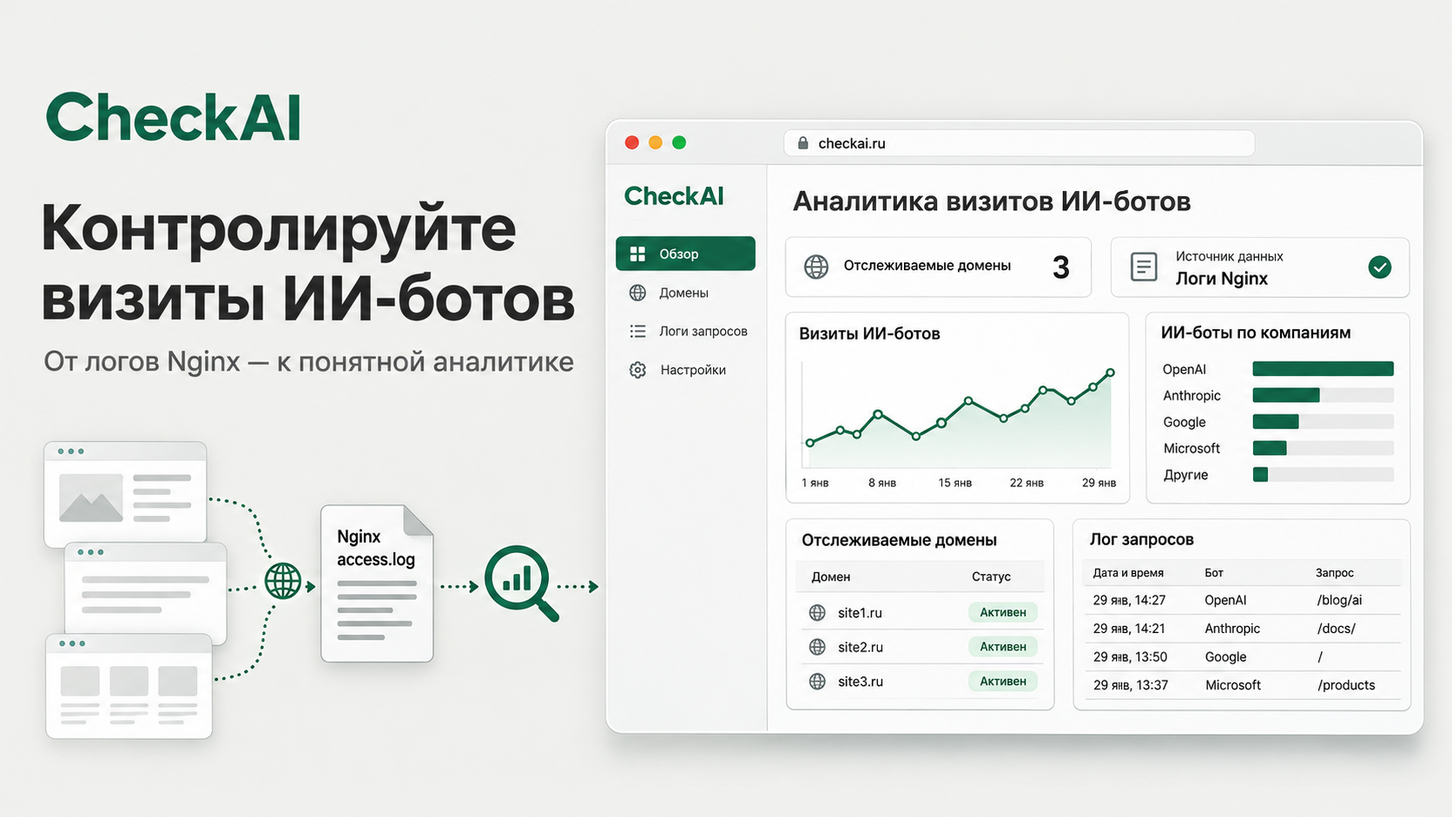
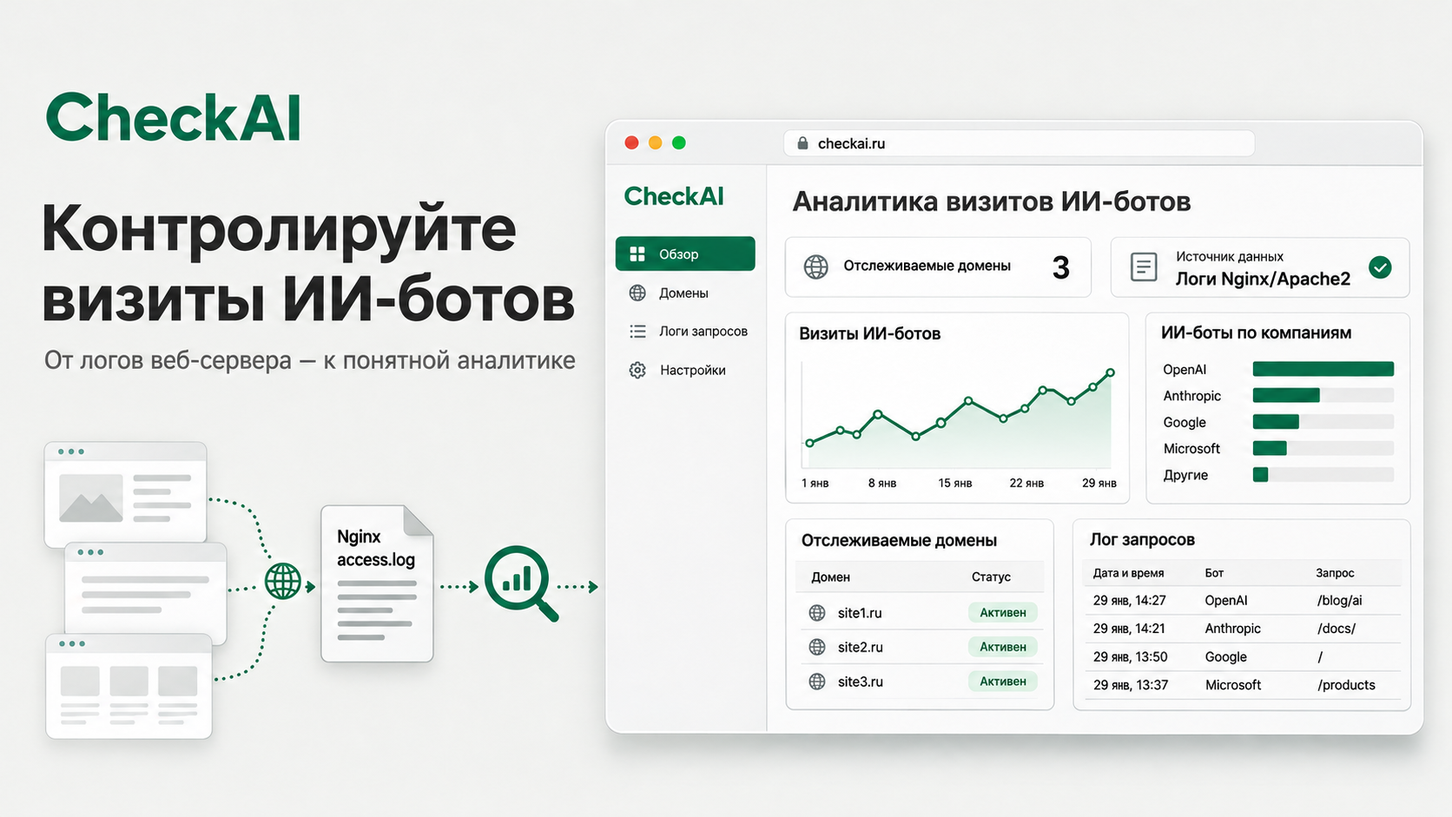
Document Apache log support and update default path

diff --git a/public/index.php b/public/index.php
@@ -963,7 +963,7 @@ $pageTitle = $settingsPage && $isAdmin ? 'Настройки — CheckAI' : ($ra
                         <label class="field">
                             <span>Корень каталога логов</span>
                             <input name="log_root" value="<?= escape($settings['log_root']) ?>" required maxlength="4096" spellcheck="false" autocapitalize="off" autocomplete="off" class="mono">
-                            <small>Абсолютный путь к каталогу, доступному PHP. Он хранится в базе этой установки. Для новых баз значение по умолчанию: <span class="mono">/var/logs-nginx</span>.</small>
+                            <small>Абсолютный путь к каталогу, доступному PHP. Он хранится в базе этой установки. Для новых баз значение по умолчанию: <span class="mono">/var/logs</span>.</small>
                         </label>
                         <label class="check">
                             <input type="checkbox" name="enabled" value="1"<?= $automatic ? ' checked' : '' ?>>

diff --git a/tests/check-clean-db.php b/tests/check-clean-db.php
@@ -10,6 +10,11 @@ if ($version !== 20) {
     throw new RuntimeException("Expected SQLite schema version 20, got $version.");
 }
 
+$logRoot = $database->query('SELECT log_root FROM settings WHERE id = 1')->fetchColumn();
+if ($logRoot !== '/var/logs') {
+    throw new RuntimeException('Fresh database has an unexpected log root.');
+}
+
 $botCount = (int) $database->query('SELECT COUNT(*) FROM bots')->fetchColumn();
 $userCount = (int) $database->query('SELECT COUNT(*) FROM users')->fetchColumn();
 $signatureCount = (int) $database->query('SELECT COUNT(*) FROM bot_signatures')->fetchColumn();

diff --git a/README.md b/README.md
@@ -1,12 +1,27 @@
 # CheckAI
 
-CheckAI — сервис для мониторинга обращений ИИ-ботов к сайтам. Он читает access-логи Nginx, распознаёт известных ботов и показывает статистику по сайтам, компаниям, ботам и запрошенным страницам.
+CheckAI is a service for monitoring AI bot visits to websites. It reads Nginx/Apache2 access logs in `combined` format, identifies known bots, and displays statistics by website, company, bot, and requested page.
+
+The web dashboard and collector run on PHP 8.3, and data is stored in SQLite. CheckAI is designed for website owners and teams who want to understand how AI services access their content.
+
+## Features
+
+- Collection and parsing of Nginx/Apache2 access logs in `combined` format;
+- AI bot identification using configurable User-Agent signatures;
+- Reports, rankings, and a request log with filters;
+- Management of websites, bots, companies, and users through the web dashboard;
+- Manual or automatic data collection and daily digests;
+- Local data storage in SQLite.
+
+# CheckAI (на русском)
+
+CheckAI — сервис для мониторинга обращений ИИ-ботов к сайтам. Он читает access-логи Nginx/Apache2 в формате `combined`, распознаёт известных ботов и показывает статистику по сайтам, компаниям, ботам и запрошенным страницам.
 
 Веб-панель и сборщик работают на PHP 8.3, данные хранятся в SQLite. Проект подходит владельцам сайтов и командам, которым важно понимать, как ИИ-сервисы обращаются к их контенту.
 
 ## Возможности
 
-- сбор и разбор access-логов Nginx в формате `combined`;
+- сбор и разбор access-логов Nginx/Apache2 в формате `combined`;
 - распознавание ИИ-ботов по настраиваемым сигнатурам User-Agent;
 - отчёты, рейтинги и журнал запросов с фильтрами;
 - управление сайтами, ботами, компаниями и пользователями из веб-панели;
@@ -63,7 +78,7 @@ docker compose up -d --build
 docker compose run --rm admin-setup
 ```
 
-Затем откройте панель по адресу [http://localhost:555/](http://localhost:555/). По умолчанию Compose ищет журналы в `../logs-nginx`; путь к каталогу можно задать переменной `CHECKAI_LOG_DIR`. Для локальной проверки можно создать пустой каталог `../logs-nginx` рядом с каталогом проекта.
+Затем откройте панель по адресу [http://localhost:555/](http://localhost:555/). По умолчанию Compose ищет журналы в `../logs`; путь к каталогу можно задать переменной `CHECKAI_LOG_DIR`. Для локальной проверки можно создать пустой каталог `../logs` рядом с каталогом проекта.
 
 ### Проверка на чистой базе
 
@@ -86,21 +101,21 @@ GitHub Actions выполняет эти же команды при каждом
 
 - Нужны PHP 8.3 с PDO SQLite и веб-сервер Apache или Nginx с корнем сайта `public`. Закройте от веб-доступа `src`, `database`, `bin` и каталог `var`.
 - Инициализируйте базу командой `php bin/init-db.php`, затем создайте администратора командой `php bin/admin-setup.php`.
-- В настройках укажите абсолютный путь к папке логов, доступный пользователю PHP. На Linux PHP должен иметь право прохода (`x`) по каталогу и чтения (`r`) нужных файлов. Например, если Apache работает от `www-data`, а каталог `/var/logs-nginx` закрыт для остальных пользователей, выдайте `www-data` право прохода через ACL: `setfacl -m u:www-data:--x /var/logs-nginx`. Если сам файл не читается, выдайте ACL на конкретный файл, например `setfacl -m u:www-data:r-- /var/logs-nginx/example.com.access.log`. Не открывайте каталог всем пользователям через `chmod 777`.
+- В настройках укажите абсолютный путь к папке логов, доступный пользователю PHP. На Linux PHP должен иметь право прохода (`x`) по каталогу и чтения (`r`) нужных файлов. Например, если Apache работает от `www-data`, а каталог `/var/logs` закрыт для остальных пользователей, выдайте `www-data` право прохода через ACL: `setfacl -m u:www-data:--x /var/logs`. Если сам файл не читается, выдайте ACL на конкретный файл, например `setfacl -m u:www-data:r-- /var/logs/example.com.access.log`. Не открывайте каталог всем пользователям через `chmod 777`.
 - Для автоматического сбора добавьте в cron запуск каждые пять минут: `*/5 * * * * /usr/bin/php /path/to/checkai/bin/collect.php --checksettings`. Автосбор включается в настройках.
 
 ## Локальный запуск в Docker
 
 - Docker Compose запускается из корня проекта. Адрес панели для локальной разработки — `http://localhost:555/`. Порт контейнера публикуется на `127.0.0.1:555`.
-- Путь к образцам логов задаётся переменной `CHECKAI_LOG_DIR` или источником bind-mount в Compose. Внутри контейнеров папка доступна как `/var/logs-nginx` только для чтения; этот путь записывается в локальную базу.
+- Путь к образцам логов задаётся переменной `CHECKAI_LOG_DIR` или источником bind-mount в Compose. Внутри контейнеров папка доступна как `/var/logs` только для чтения; этот путь записывается в локальную базу.
 - Локальная SQLite хранится в `database/checkai.sqlite3`. Docker Compose подключает каталог `database` к контейнерам по пути `/opt/checkai/var`. В настройках сайта указывается имя файла из примонтированного каталога.
 
 
 ## Сбор логов
 
 - По умолчанию сбор запускается кнопкой «Обновить данные». Администратор может включить автоматический сбор каждые пять минут. Блокировка предотвращает параллельные запуски.
-- Сборщик читает стандартные access-логи Nginx в формате `combined`. Корень логов задаётся в разделе «Настройки» и хранится в SQLite отдельно для каждой установки. Для новых баз значение по умолчанию — `/var/logs-nginx`; его можно изменить на путь, доступный PHP. Для каждого сайта указывается путь к файлу относительно корня, например `yoursite.com.access.log`.
-- При добавлении сайта приложение проверяет, что файл существует внутри корня логов. Проверяйте доступ от имени пользователя PHP: `runuser -u www-data -- test -r /var/logs-nginx/yoursite.com.access.log && echo readable || echo not-readable`. Если файл существует, но проверка не проходит, проверьте права на каждый каталог пути (`namei -l /var/logs-nginx/yoursite.com.access.log`): для прохода нужен `x` на каталогах, для чтения — `r` на файле. На VPS право прохода по закрытому каталогу можно дать через ACL без разрешения просматривать его содержимое.
+- Сборщик читает стандартные access-логи Nginx/Apache2 в формате `combined`. Корень логов задаётся в разделе «Настройки» и хранится в SQLite отдельно для каждой установки. Для новых баз значение по умолчанию — `/var/logs`; его можно изменить на путь, доступный PHP. Для каждого сайта указывается путь к файлу относительно корня, например `yoursite.com.access.log`.
+- При добавлении сайта приложение проверяет, что файл существует внутри корня логов. Проверяйте доступ от имени пользователя PHP: `runuser -u www-data -- test -r /var/logs/yoursite.com.access.log && echo readable || echo not-readable`. Если файл существует, но проверка не проходит, проверьте права на каждый каталог пути (`namei -l /var/logs/yoursite.com.access.log`): для прохода нужен `x` на каталогах, для чтения — `r` на файле. На VPS право прохода по закрытому каталогу можно дать через ACL без разрешения просматривать его содержимое.
 - При первом подключении сборщик читает текущий файл с начала. При следующих запусках продолжает с сохранённой позиции. Незавершённая строка остаётся до следующего запуска. События и курсор сохраняются в одной транзакции.
 - После ротации сборщик дочитывает старый файл с сохранённой позиции, пока файл доступен в несжатом виде. Идентификаторы файловой системы и файла (`device` и `inode`) помогают различать старый и новый файлы. Новый файл читается с нуля. Если старый файл уже упакован в ZIP или недоступен, сборщик продолжает с нового файла.
 - User-Agent сравнивается с активными сигнатурами без учёта регистра. При нескольких совпадениях применяется самая длинная сигнатура. Сохраняется одно событие. Изменения сигнатур применяются к ещё не обработанным строкам.

diff --git a/DECISIONS.md b/DECISIONS.md
@@ -4,7 +4,7 @@
 
 ## 1. Назначение и размещение
 
-CheckAI собирает обращения распознанных ИИ-ботов к сайтам из access-логов Nginx и показывает отчёты, рейтинг и журнал событий. Приложение написано на PHP 8.3, данные хранятся в SQLite.
+CheckAI собирает обращения распознанных ИИ-ботов к сайтам из access-логов Nginx/Apache2 в формате `combined` и показывает отчёты, рейтинг и журнал событий. Приложение написано на PHP 8.3, данные хранятся в SQLite.
 
 - Корнем публичного веб-сайта должен быть каталог `public`. Исходный код, команды, схема базы и каталог данных должны оставаться вне веб-доступа.
 - В репозитории есть Docker Compose: Apache/PHP обслуживает панель на `127.0.0.1:555`, отдельный сервис запускает сборщик. Docker — вариант запуска, а не источник настроек продукта.
@@ -14,13 +14,13 @@ CheckAI собирает обращения распознанных ИИ-бот
 
 ## 2. Логи и сборщик
 
-В таблице `settings` хранится `log_root`. Для новой базы значение по умолчанию — `/var/logs-nginx`; администратор может изменить его в разделе «Настройки». У каждого сайта в `sites.log_path` задаётся имя файла или относительный путь внутри корня. Абсолютные пути и обход корня через `..` отклоняются.
+В таблице `settings` хранится `log_root`. Для новой базы значение по умолчанию — `/var/logs`; администратор может изменить его в разделе «Настройки». У каждого сайта в `sites.log_path` задаётся имя файла или относительный путь внутри корня. Абсолютные пути и обход корня через `..` отклоняются.
 
 - При прямом запуске PHP корень логов задаётся абсолютным путём, видимым самому PHP-процессу, например `/path/to/logs`.
 - На Linux пользователю PHP нужны право прохода (`x`) по каталогам пути и право чтения (`r`) у файлов логов. Например, при каталоге `root:main` с правами `2750` и PHP от `www-data` файл может отображаться в файловом менеджере, но оставаться недоступным приложению. Для закрытого каталога используйте точечный ACL, например `setfacl -m u:www-data:--x /var/logs-nginx`; чтение отдельных файлов при необходимости разрешайте отдельно. Не ослабляйте права каталога для всех пользователей.
 - В Compose локальный каталог `../logs-nginx` подключается только для чтения как `/var/logs-nginx`. В базе контейнерной установки должен быть путь `/var/logs-nginx`, а не путь Windows-хоста.
 - Добавление сайта требует, чтобы заданный файл уже существовал внутри `log_root`. Для диагностики проверяйте его от имени пользователя веб-сервера, например `runuser -u www-data -- test -r /var/logs-nginx/yoursite.com.access.log`, и проверяйте права по цепочке через `namei -l`.
-- Сборщик читает access-логи формата Nginx `combined` для включённых сайтов. В SQLite сохраняются только строки, чей User-Agent совпал с активной сигнатурой. Сравнение без учёта регистра; если совпало несколько сигнатур, первой проверяется наиболее длинная.
+- Сборщик читает access-логи Nginx/Apache2 в формате `combined` для включённых сайтов. В SQLite сохраняются только строки, чей User-Agent совпал с активной сигнатурой. Сравнение без учёта регистра; если совпало несколько сигнатур, первой проверяется наиболее длинная.
 - Событие содержит сайт, бота, время из лога в UTC, HTTP-метод, путь без query string, статус и IP-адрес источника.
 - Сбор можно запустить кнопкой «Обновить данные». В Compose отдельный сервис проверяет настройку автосбора и запускает `php bin/collect.php --checksettings` каждые пять минут. При запуске без Docker эту команду нужно добавить в cron или планировщик ОС.
 - Файл читается с сохранённого byte offset. Курсор привязан к сайту и идентификаторам `device`/`inode`; неполная строка остаётся до следующего запуска. Запись событий и обновление курсора проходят в одной транзакции. Блокировка не допускает параллельный сбор.
@@ -73,5 +73,5 @@ SQLite работает с WAL и внешними ключами. Для зап
 - После ротации переименованный файл не дочитывается автоматически; gzip и архивы не обрабатываются. Требуется отдельное решение по восстановлению после длительного простоя.
 - При первом чтении текущий файл обрабатывается с начала. Период первоначального чтения отдельно не ограничен.
 - Резервное копирование SQLite с WAL требует согласованного способа, учитывающего WAL; копирования только `checkai.sqlite3` во время записи недостаточно.
-- Репозиторий не настраивает внешний Nginx, TLS, DNS, firewall или VPS. Наличие локального Compose не подтверждает конфигурацию удалённого сервера.
+- Репозиторий не настраивает внешний Nginx/Apache2, TLS, DNS, firewall или VPS. Наличие локального Compose не подтверждает конфигурацию удалённого сервера.
 - Нативная Windows-установка приложения целиком отдельно не проверялась. Поддержка Windows-пути в сборщике не означает, что серверная команда создания администратора и планировщик ОС уже проверены на Windows.
